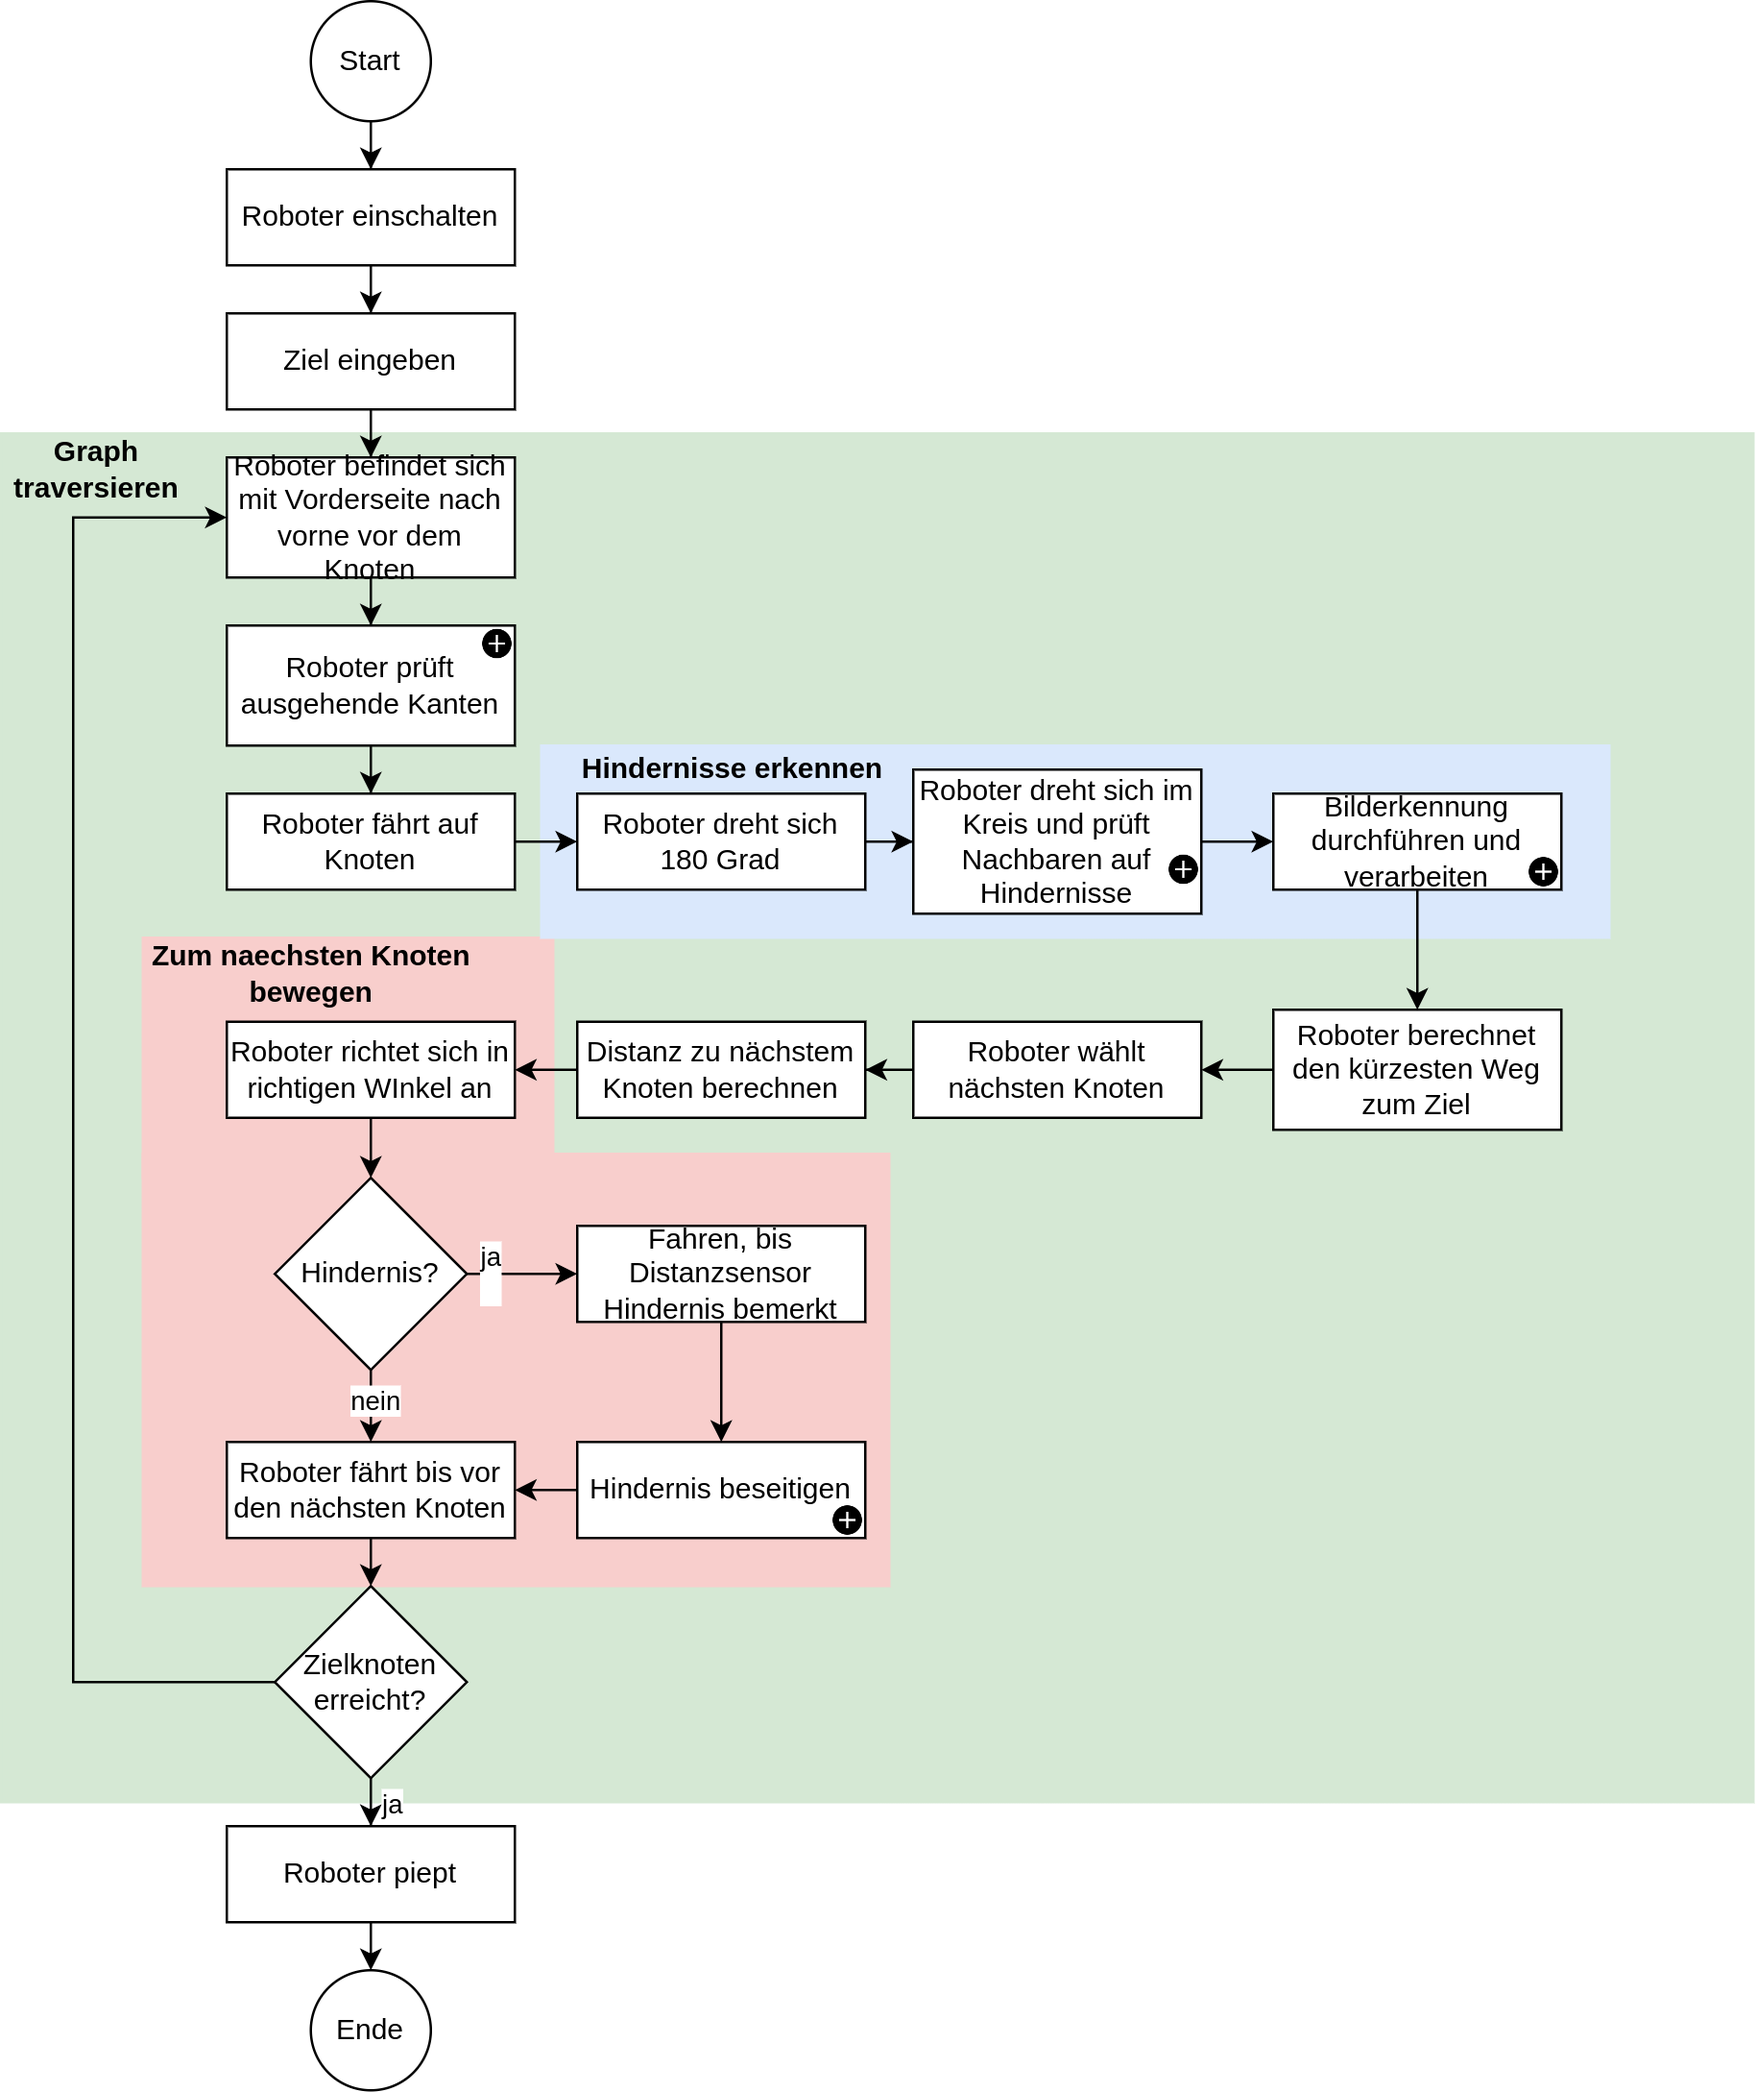
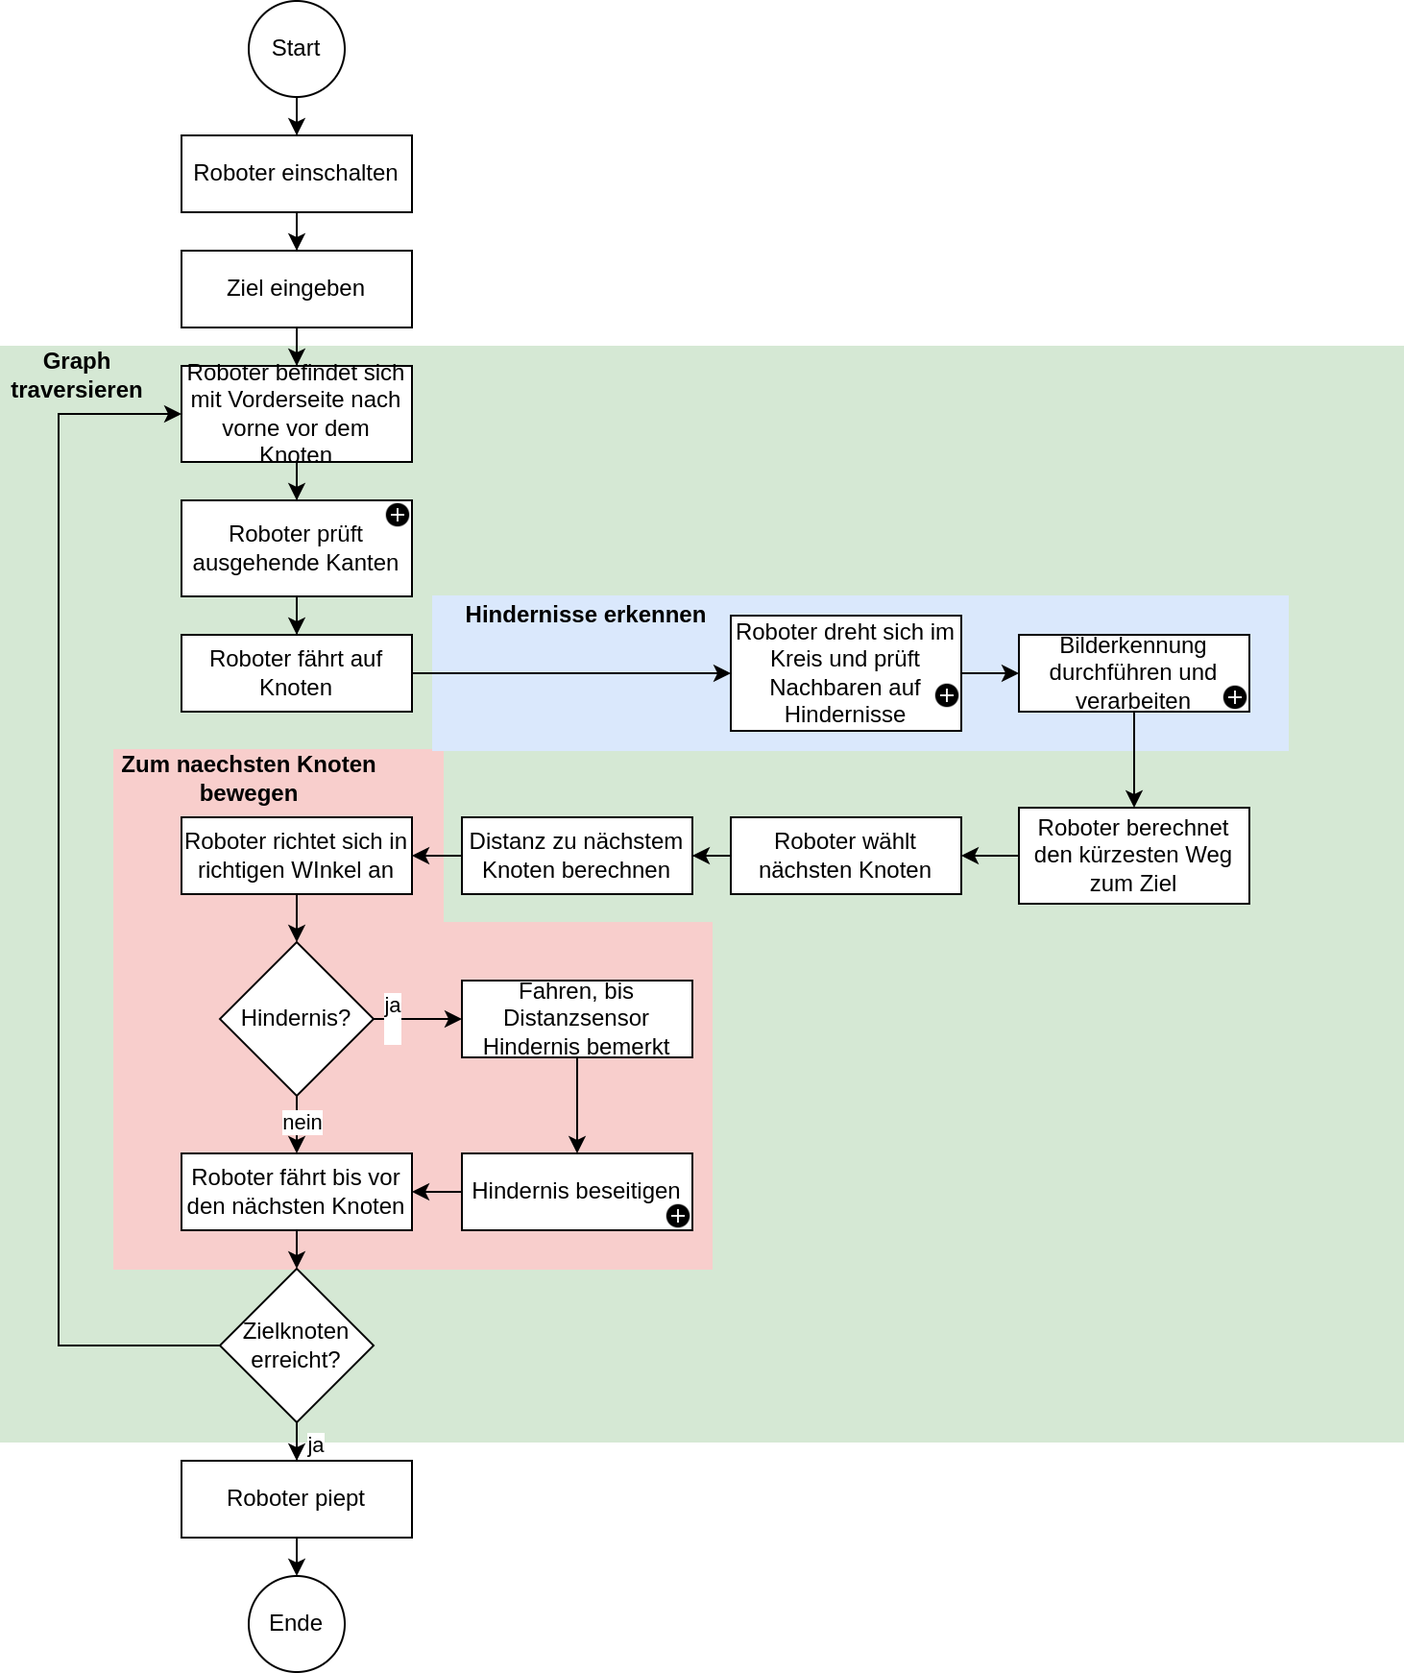
Changes from Overleaf

diff --git a/parts/07-gesamtkonzept.tex b/parts/07-gesamtkonzept.tex
@@ -128,24 +128,39 @@ PLACEHOLDER OpenCV OpenCV right?
 
 \subsubsection{Pylonen und Hindernisse erkennen}
 
-
 \begin{figure}[H]
-\centering
-\includegraphics[width=0.35\textwidth]{assets/gesamtkonzept/ablaufdiagramm-hindernisse-erkennen.png}
+\begin{subfigure}{0.45\textwidth}
+\includegraphics[width=\textwidth]{assets/gesamtkonzept/ablaufdiagramm-hindernisse-erkennen.png}
 \caption{Ablaufdiagramm Hindernis erkennen}
 \label{fig:ablaufdiagramm-hindernis-erkennen}
+\end{subfigure}
+\begin{subfigure}{0.55\textwidth}
+\includegraphics[width=\textwidth]{assets/informatik-prototyp/yolo/recognized-images.jpeg}
+\caption{YOLOv11 Bilderkennung}
+\label{fig:img-recognition-yolo}
+\end{subfigure}
+\caption{Bilderkennung Hindernisse}
+\label{fig:image-detection-obstacles}
 \end{figure}
+
+
+% \begin{figure}[H]
+% \centering
+% \includegraphics[width=0.35\textwidth]{assets/gesamtkonzept/ablaufdiagramm-hindernisse-erkennen.png}
+% \caption{Ablaufdiagramm Hindernis erkennen}
+% \label{fig:ablaufdiagramm-hindernis-erkennen}
+% \end{figure}
 
 Aus dem vorherigen Schritt der Kanten erkennen, kennt der Roboter alle ausgehenden Linien und deren Position. Er dreht sich nun im Uhrzeigersinn zu jeder Kante und fotografiert diese. Durch das Hochformat der Kameras, sieht er weit und kann auch nur die wichtigen Elemente sehen, sprich, diese, die sich auf der Linie befinden.
 
 Die Bilder werden ausgewertet mit einem YOLO Objekterkennungsalgorithmus. Dabei werden sowohle Knoten, als auch Pylonen und Barrieren erkannt. Hindernisse werden intern gespeichert und bei der Berechnung des Weges beruecksichtigt.
 
-\begin{figure}[H]
-\centering
-\includegraphics[width=\textwidth -30mm]{assets/informatik-prototyp/yolo/recognized-images.jpeg}
-\caption{YOLOv11 Bilderkennung}
-\label{fig:img-recognition-yolo}
-\end{figure}
+% \begin{figure}[H]
+% \centering
+% \includegraphics[width=\textwidth -30mm]{assets/informatik-prototyp/yolo/recognized-images.jpeg}
+% \caption{YOLOv11 Bilderkennung}
+% \label{fig:img-recognition-yolo}
+% \end{figure}
 
 \newpage
 

diff --git a/parts/05-nachhaltigkeit.tex b/parts/05-nachhaltigkeit.tex
@@ -23,8 +23,7 @@ Um die beiden Einzelteile miteinander zu verwenden, wurden sie lediglich zusamme
 Um die Hoehe und die Ausrichtung der Kamera zu simulieren, wurde ein kleiner Stativ verwendet, das ebenfalls schon im Besitz eines Teammitglieds war.
 Erst nachdem klar war, dass die Qualitaet der Bilder in Ordnung ist, wurden die neusten Versionen der Raspberry Pis bestellt. Diese wurden benoetigt, da die Rechenpower ansonsten zu tief gewesen waere.
 
-
-TODO OpenSource Technologien, anstatt proprieaetere software zu unterstuetzen, verteilung von rechenpower auf einzelne Users, nachverfolgbarkeit, um Greenwashing zu vermeiden\cite{oss-sustainability}
+TODO: DO WE KEEP THIS PARAGRPAH? Die Technologien, die fuer die Bilderkennung verwendet werden, sind alle Open Source. Open Source Software kann nachhaltiger sein, durch die Nachverfolgbarkeit der Entscheidungen und Entwickler:innen. Durch diese Transparenz wird Greenwashing\footnote{https://www.un.org/en/climatechange/science/climate-issues/greenwashing} vermieden. Ausserdem wird die benoetigte Rechenpower auf einzelne User verteilt\cite{oss-sustainability}.
 
 \subsection{Code Repositories}
 

diff --git a/parts/09-simulator.tex b/parts/09-simulator.tex
@@ -78,6 +78,8 @@ Es wurde ein objektorientierter Ansatz gewaehlt, um den Simulator umzusetzen. Di
 \label{fig:simulator-erd}
 \end{figure}
 
+Die Methode run\_blind\_testing\_mode wird im folgenden Abschnitt Trial and Error Mode beschrieben. 
+
 \subsubsection{Entwicklung}
 
 Der erste Schritt war es einen Graph zu definieren. Dazu wurde ein YAML File mit dem konfigurierten Graph erstellt. 
